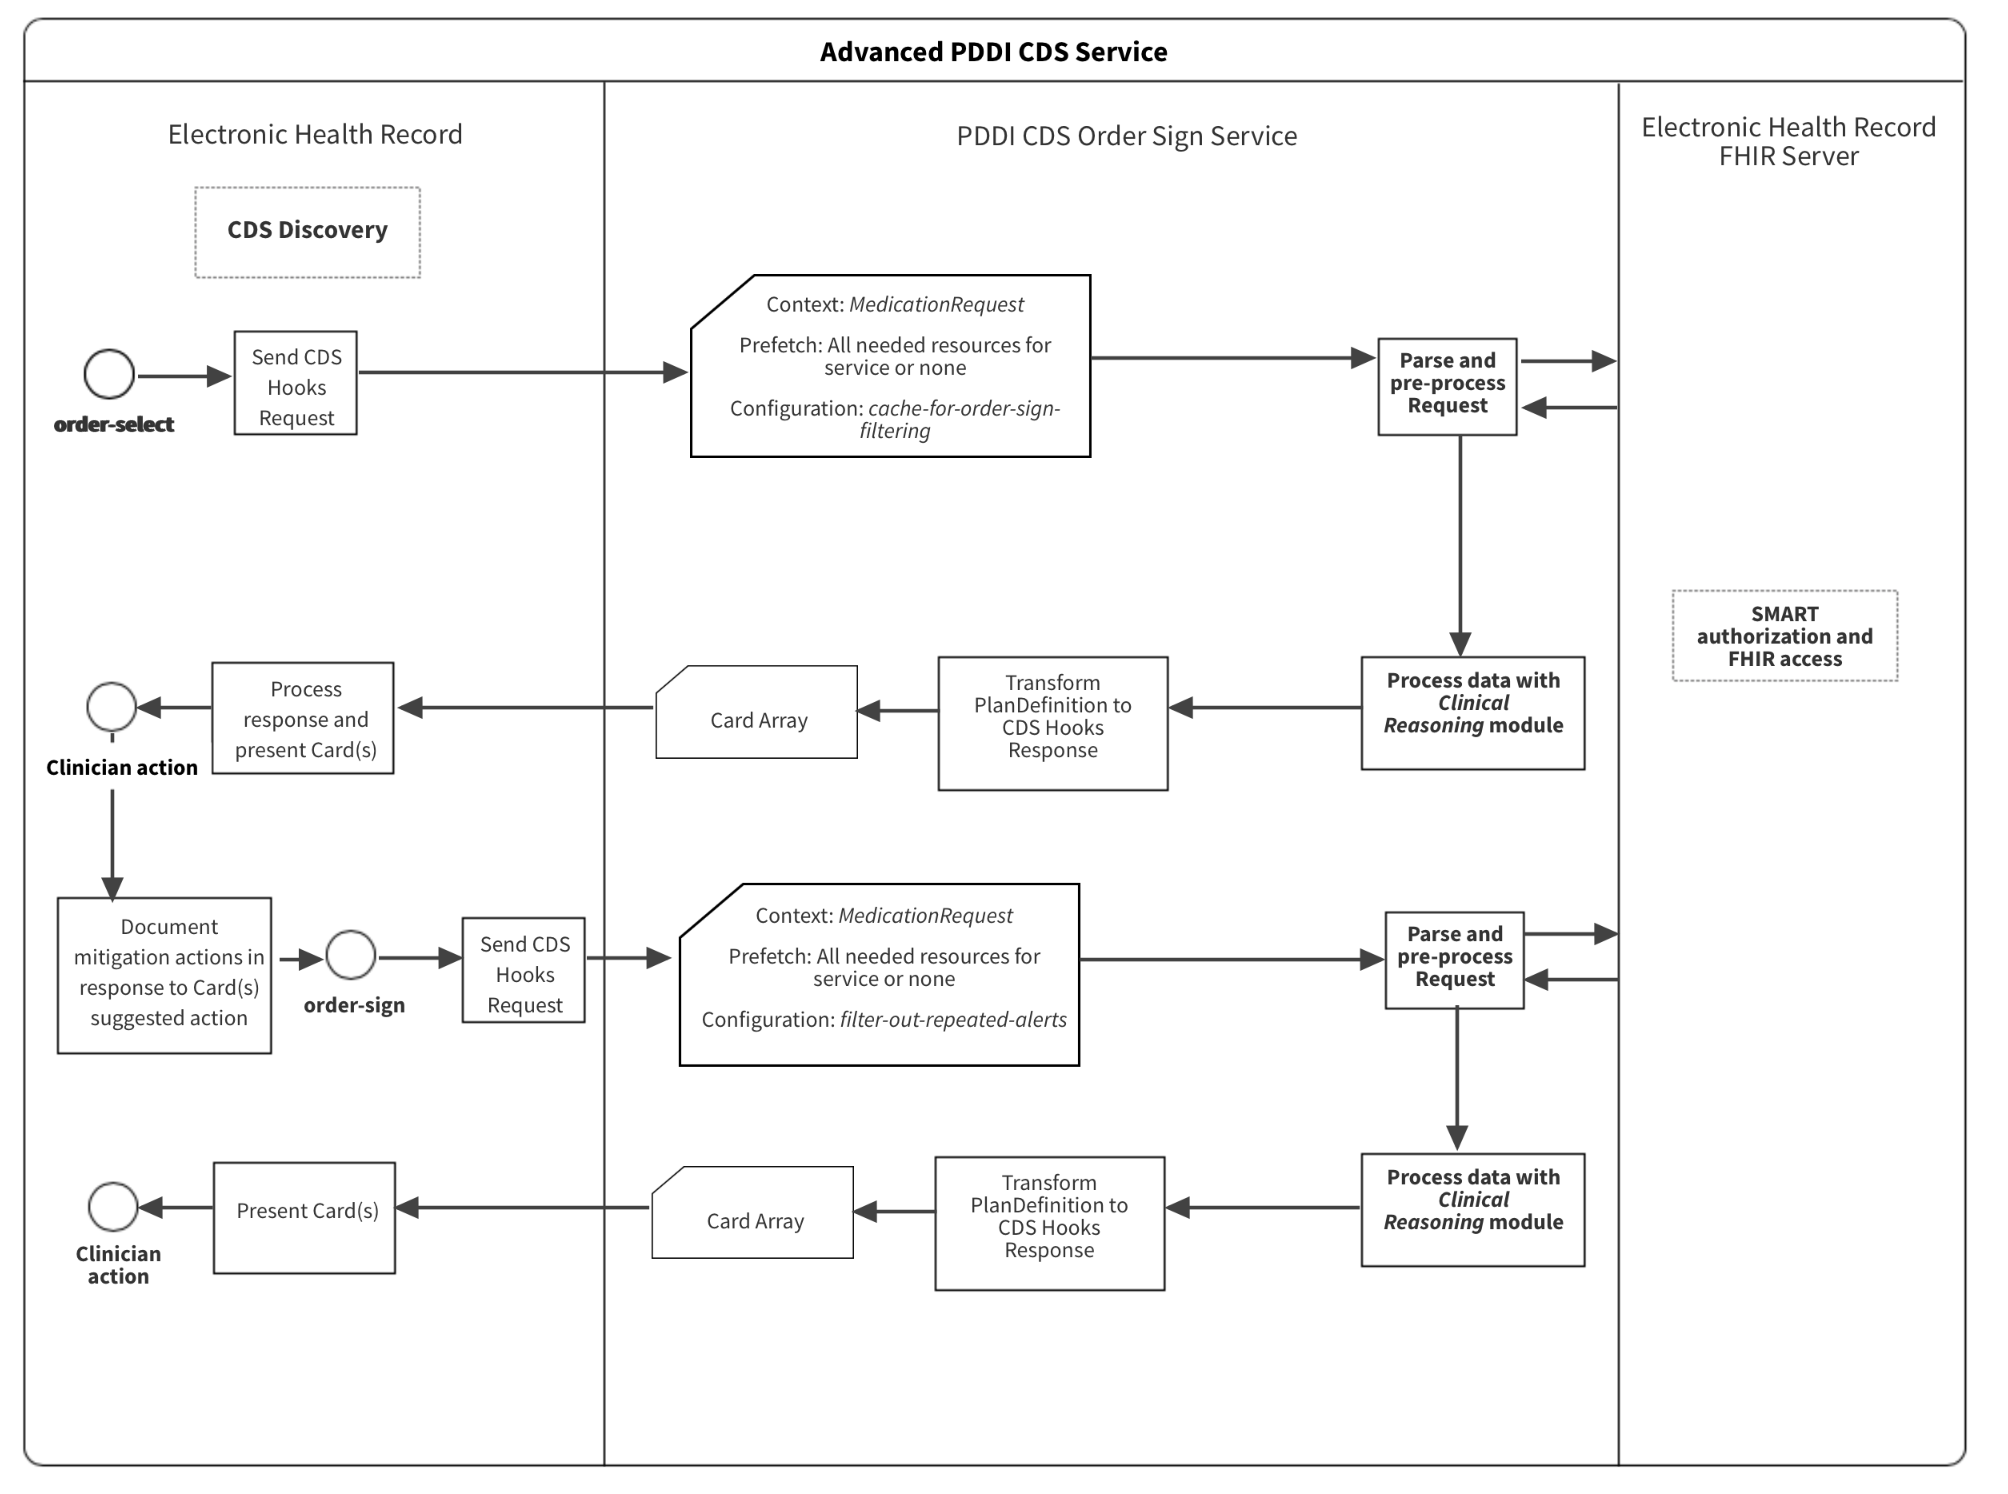
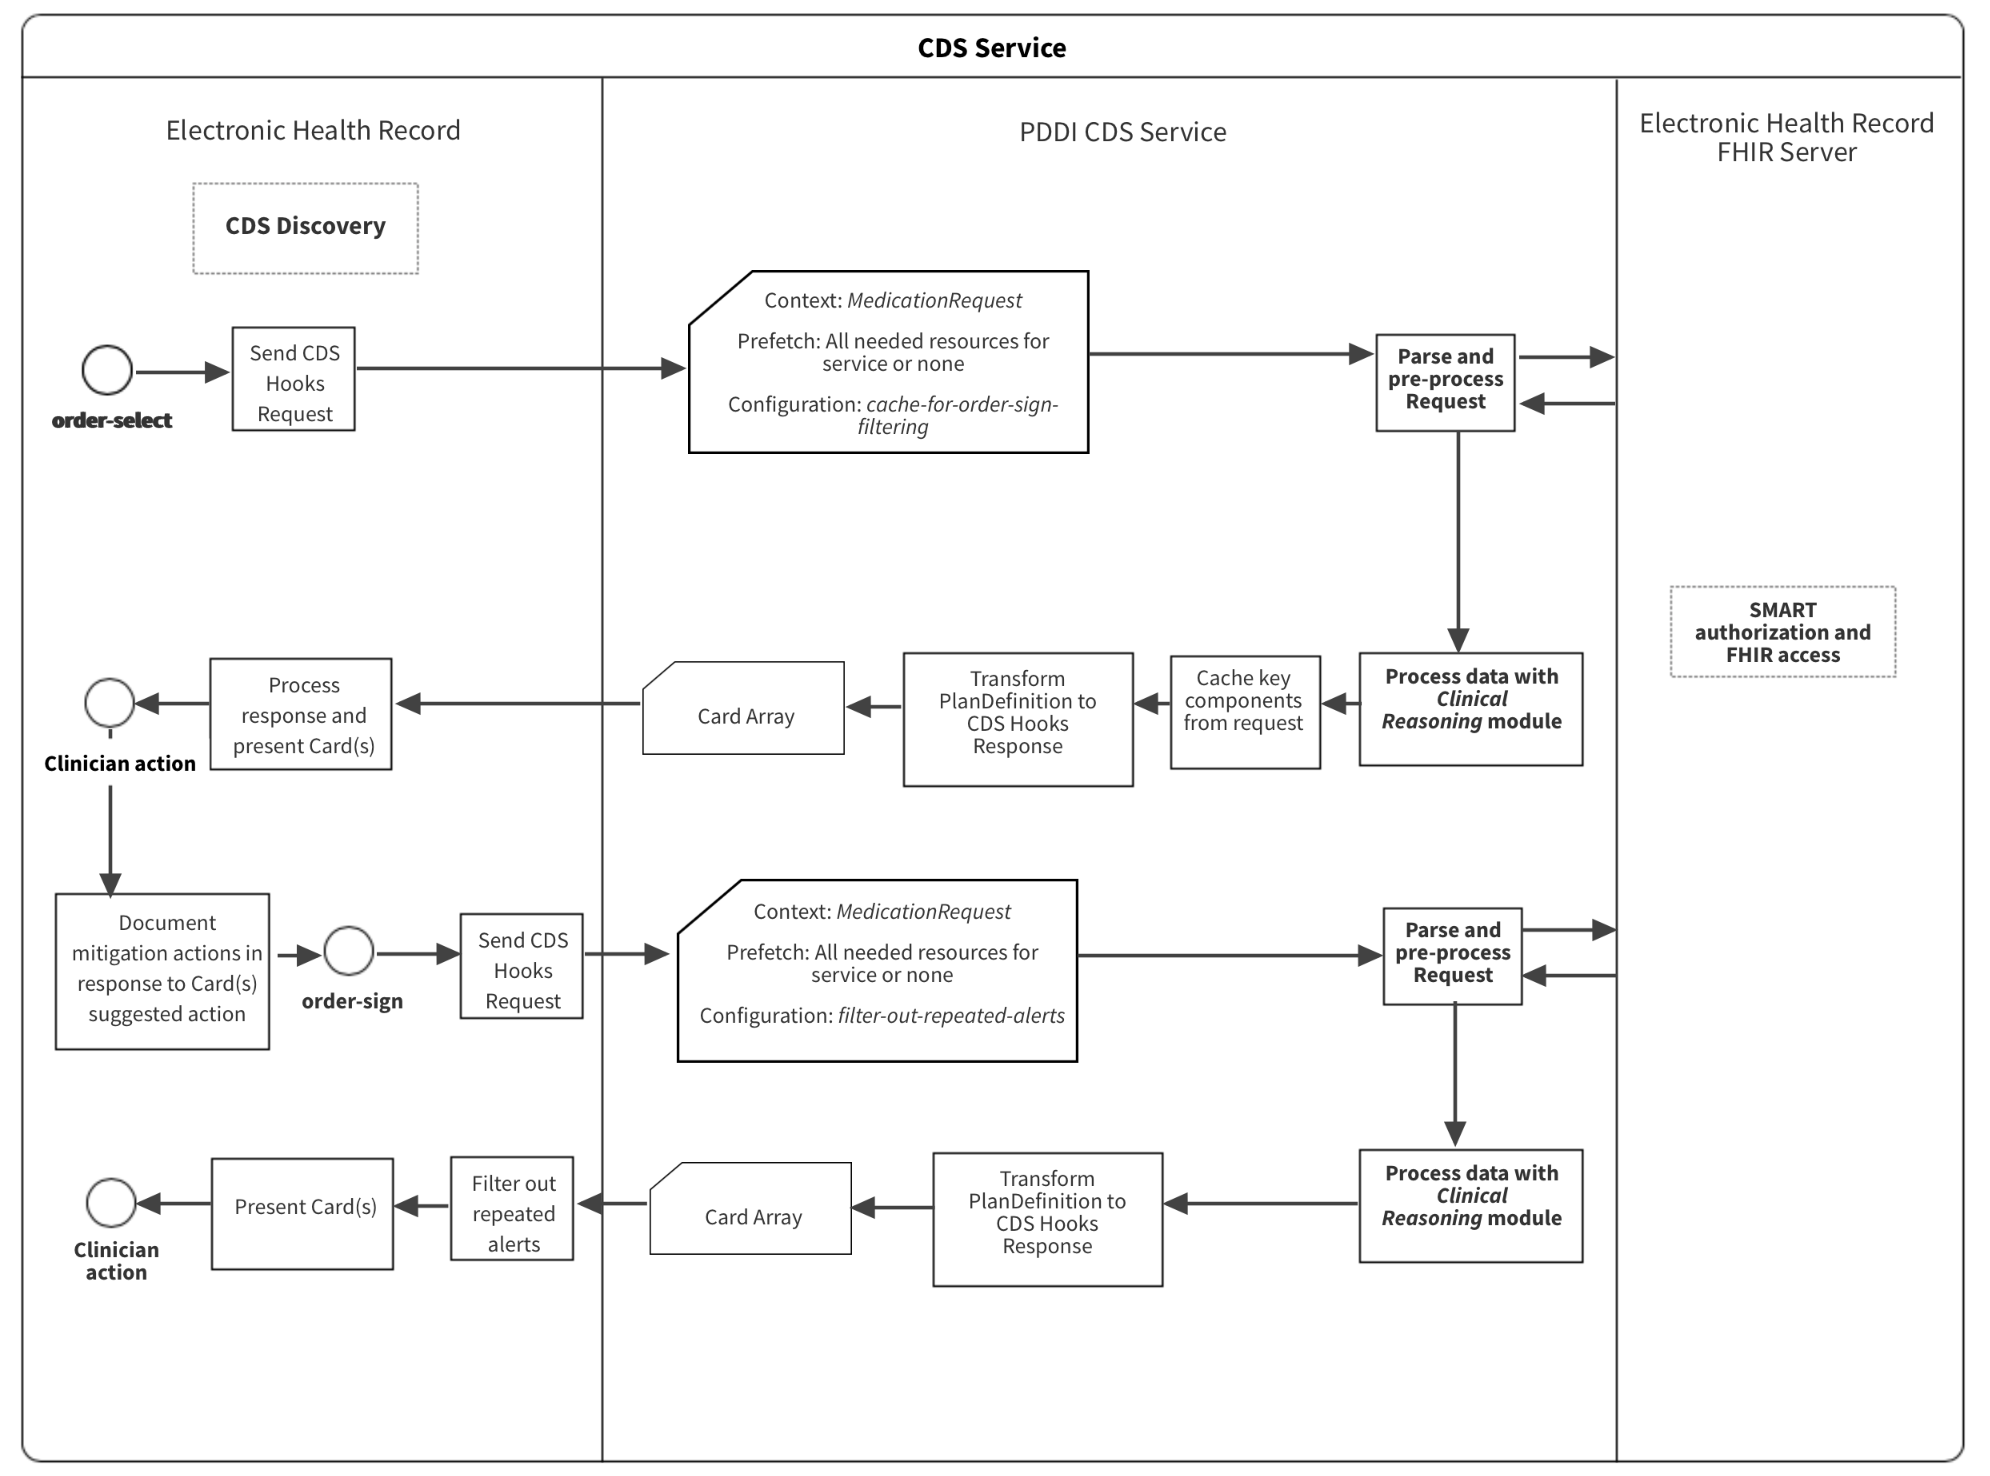
Updating advanced implementation image, fixing anchors

diff --git a/pages/_includes/cds-service-spec.md b/pages/_includes/cds-service-spec.md
@@ -12,7 +12,7 @@
 
 **PDDI CDS knowledge artifacts.**
 
-* It is RECOMMENDED that knowledge artifacts for PDDI CDS are written so that clinician-focused response information adheres to the 8 detailed best practice recommendations discussed in the Community Group Note titled [Minimum Representation of Potential Drug-Drug Interaction Knowledge and Evidence](https://dbmi-icode-01.dbmi.pitt.edu/dikb-evidence/hcls-drug-drug-interaction/index.html).
+* It is RECOMMENDED that knowledge artifacts for PDDI CDS are written so that clinician-focused response information adheres to the 8 detailed best practice recommendations discussed in the Community Group Note titled [Minimum Representation of Potential Drug-Drug Interaction Knowledge and Evidence](https://w3id.org/hclscg/pddi).
 
 **A CDS rule execution engine (service).** 
 
@@ -27,7 +27,7 @@
 **An electronic health record (EHR) CDS client.**
 
 
-* Prior to a hook trigger and subsequent processes, the EHR MUST initiate a [CDS Discovery](#-318--cds-discovery) request
+* Prior to a hook trigger and subsequent processes, the EHR MUST initiate a [CDS Discovery](#-319--cds-discovery) request
 
 * The EHR MUST call the PDDI CDS service by sending an HTTP POST containing a CDS Hooks request (JSON formatted) to the service endpoint (e.g.,http://FHIR.org/PDDI-CDS/warfarin-nsaids-cds). The JSON ([CDS Hooks request](#-323--cds-hooks-request)) MUST contain specified information for the hook that was triggered including FHIR server, user, and context. Provision of prefetch data as specified by the CDS service is RECOMMENDED.
 
@@ -120,7 +120,7 @@ The feedback service...TODO: discuss https://github.com/cds-hooks/docs/wiki/Feed
 ### <span style="color:silver"> 3.1.7 </span> Filtering CDS Hooks response cards at `order-sign`: CDS Service versus EHR Client
 {:.no_toc}
 
-The preferred implementation is to configure the CDS service to filter duplicative response cards previously shown to the prescriber at `order-select` as demonstrated in the [advanced implementation](#-330--advanced-implementation).  In order for PDDI CDS to be both sensitive and specific, different contextual factors are sent to the CDS service depending upon the order entry workflow step the clinician is engaged in.  At the time of medication selection, a `order-select` CDS Hook sends medication resources to the CDS service. Later, at the time of order signing, a `order-sign` CDS Hook sends other contextual resources specific to a PDDI identified from processing `order-select`. This might include retrospective patient conditions, lab measurements, and other information. One potential advantage of this approach is a reduction the amount of information needed to provide actionable PDDI information to the clinician. The approach might also limit the amount of information the EHR has to provide for an order entry task. For example, if a clinician starts an NSAID order for a patient that was taking warfarin and decides to discontinue the order based on the presented cards, the clinician only needs to read and process medication factors, and the EHR would not display additional patient resources such as age and history of upper gastrointestinal bleed. Table 1 provides a summary of the specification and feature differences between the levels of implementation.
+The preferred implementation is to configure the CDS service to filter duplicative response cards previously shown to the prescriber at `order-select` as demonstrated in the [advanced implementation](#-330--advanced-implementation).  In order for PDDI CDS to be both sensitive and specific, different contextual factors are sent to the CDS service depending upon the order entry workflow step the clinician is engaged in.  At the time of medication selection, a `order-select` CDS Hook sends medication resources to the CDS service. Later, at the time of order signing, a `order-sign` CDS Hook sends other contextual resources specific to a PDDI identified from processing `order-select`. This might include retrospective patient conditions, lab measurements, and other information. One potential advantage of this approach is a reduction the amount of information needed to provide actionable PDDI information to the clinician. The approach might also limit the amount of information the EHR has to provide for an order entry task. For example, if a clinician starts an NSAID order for a patient that was taking warfarin and decides to discontinue the order based on the presented cards, the clinician only needs to read and process medication factors, and the EHR would not display additional patient resources such as age and history of upper gastrointestinal bleed.
  
 ### <span style="color:silver"> 3.1.8 </span> Process 
 {:.no_toc}
@@ -836,7 +836,7 @@ Field | Optionality | Prefetch Token | Type | Description
 
 ###### PDDI Configuration Items
 {:.no_toc}
-The CDS Service MUST process configuration options sent as within an extension resource with the CDS Hooks request in the field `pddi-configuration-items`. There are two standart configuration options:  `cache-for-order-sign-filtering` (only used in `order-select`), `filter-out-repeated-alerts` (only used in `order-sign`). All of these configuration options accept Boolean values and are required for the advanced implementation. The `cache-for-order-sign-filtering` option is used to cache the medication resource during `order-select` and is used as a reference during `order-sign` if `filter-out-repeated-alerts` is set to TRUE. The `filter-out-repeated-alerts` option is used to hide card results if they were shown in the `order-select` results. At the present time, there are no other standard configuration options for the basic implementation of PDDI CDS. Balloting such options as a standard is for future work. While not a recommendation, some examples can be shown. One example would be a configuration such as `alert-non-serious` that accepts accepts a Boolean value indicating to the CDS service if it should provide alerts for PDDIs that have an indicator other than 'serious'. Another example would be a configuration such as `show-evidence-support`  indicating to the CDS service that it should provide more detailed evidence support for its alerts. 
+The CDS Service MUST process configuration options sent as within an extension resource with the CDS Hooks request in the field `pddi-configuration-items`. There are two standard configuration options:  `cache-for-order-sign-filtering` (only used in `order-select`), `filter-out-repeated-alerts` (only used in `order-sign`). All of these configuration options accept Boolean values and are required for the advanced implementation. The `cache-for-order-sign-filtering` option is used to cache the medication resource during `order-select` and is used as a reference during `order-sign` if `filter-out-repeated-alerts` is set to TRUE. The `filter-out-repeated-alerts` option is used to hide card results if they were shown in the `order-select` results. At the present time, there are no other standard configuration options for the basic implementation of PDDI CDS. Balloting such options as a standard is for future work. While not a recommendation, some examples can be shown. One example would be a configuration such as `alert-non-serious` that accepts accepts a Boolean value indicating to the CDS service if it should provide alerts for PDDIs that have an indicator other than 'serious'. Another example would be a configuration such as `show-evidence-support`  indicating to the CDS service that it should provide more detailed evidence support for its alerts. 
 
 
 #### Prefetch
